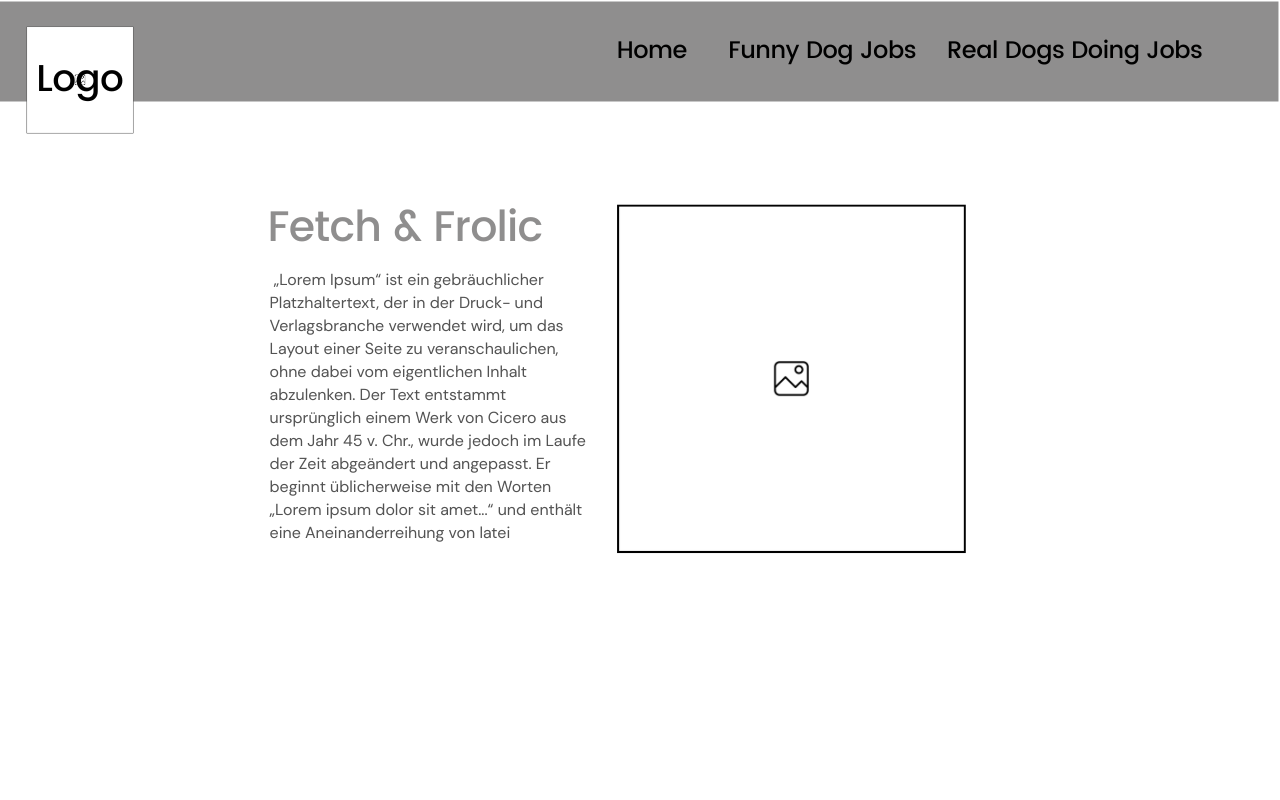
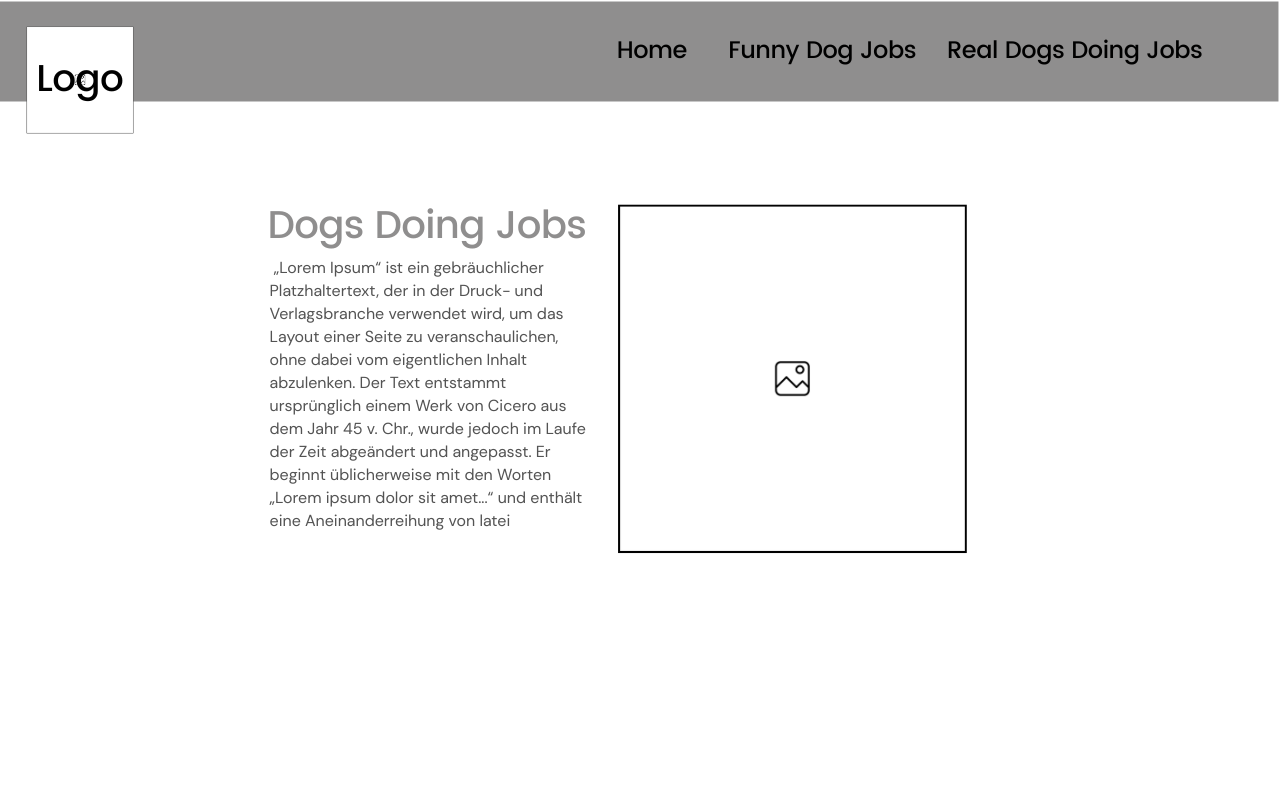
Update home wireframe image for Dogs Doing Jobs website

Changed region(s): [[0.1875, 0.25, 0.4688, 0.6875], [0.5938, 0.4688, 0.6562, 0.5]]

diff --git a/working-dogs/site-plan.html b/working-dogs/site-plan.html
@@ -130,7 +130,7 @@
       <h3>Home page</h3>
 <p>
 <strong>Site Purpose</strong><br>
-Welcome to Fetch & Frolic! This isn’t just another dog website. This is 
+Welcome to Dogs Doing Jobs! This isn’t just another dog website. This is 
 where dogs work, play, and occasionally nap on the job. Fetch & Frolic is 
 your go-to destination for a good laugh, a soft "awww," and the kind of 
 canine chaos that comes from imagining dogs with full-time jobs and huge 
